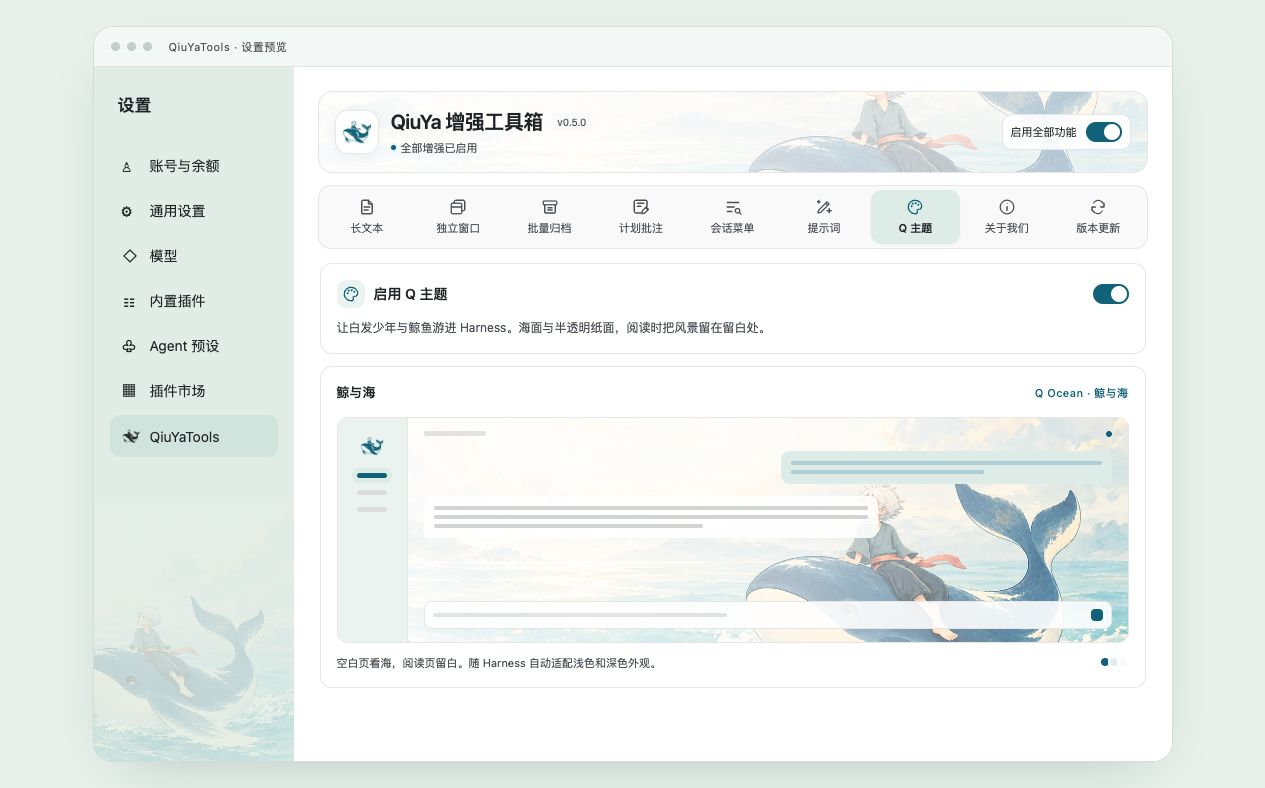
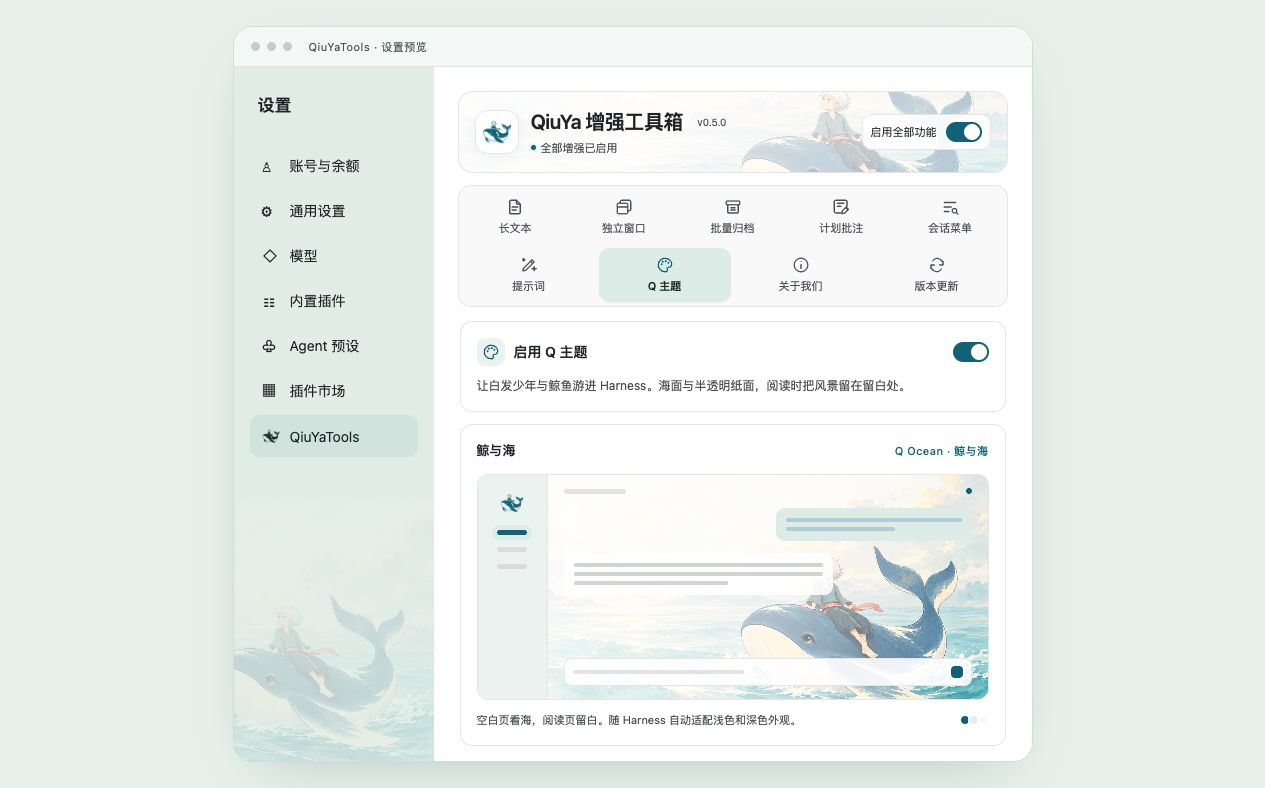
调整功能入口为双排并更新说明截图

diff --git a/lib/client.js b/lib/client.js
@@ -4470,7 +4470,7 @@ var en2 = {
 };
 
 // src/client/styles.css
-var styles_default2 = '/* The official settings outlet is display:contents inside a scrolling options\n   div. Contain that div only while our own section is mounted. */\n[data-shortcut-modal="settings"] div:has(> [data-slot="settings.section"] > .qyt-settings) {\n  display: flex;\n  min-height: 0;\n  overflow: hidden;\n  padding-bottom: 16px;\n}\n.qyt-settings {\n  --qyt-ocean-art: url("__QYT_OCEAN_SCENE__");\n  --qyt-ocean: var(--qyt-q-sea, #116d83);\n  --qyt-ocean-solid: #116d83;\n  --qyt-ocean-soft: color-mix(in srgb, #90bfb3 16%, var(--dsw-alias-bg-layer-2));\n  --qyt-ocean-line: color-mix(in srgb, var(--dsw-alias-label-primary) 10%, var(--dsw-alias-bg-layer-2));\n  --qyt-ocean-focus: color-mix(in srgb, var(--qyt-ocean) 30%, transparent);\n  --qyt-surface: var(--dsw-alias-bg-layer-2);\n  --qyt-surface-muted: color-mix(in srgb, var(--dsw-alias-label-primary) 2.5%, var(--dsw-alias-bg-layer-2));\n  --qyt-selected: color-mix(in srgb, #90bfb3 26%, var(--dsw-alias-bg-layer-2));\n  --qyt-art-paper: color-mix(in srgb, var(--dsw-alias-bg-layer-2) 88%, transparent);\n  --qyt-art-wash: color-mix(in srgb, var(--dsw-alias-bg-layer-2) 58%, transparent);\n  display: flex; flex: 1; flex-direction: column; width: 100%; height: 100%; min-width: 0; min-height: 0; overflow: hidden; padding-top: 2px; color: var(--dsw-alias-label-primary);\n}\nbody[data-ds-dark-theme] .qyt-settings { --qyt-ocean: var(--qyt-q-sea, #8ec6d2); --qyt-art-paper: color-mix(in srgb, var(--dsw-alias-bg-layer-2) 94%, transparent); --qyt-art-wash: color-mix(in srgb, var(--dsw-alias-bg-layer-2) 82%, transparent); }\n.qyt-settings * { box-sizing: border-box; }\n.qyt-fixed, .qyt-tabs { flex: none; }\n.qyt-header { display: flex; align-items: center; gap: 12px; min-height: 82px; margin-bottom: 12px; padding: 16px; border: 1px solid var(--qyt-ocean-line); border-radius: 15px; background-color: var(--qyt-ocean-soft); background-image: linear-gradient(90deg, var(--qyt-art-paper) 25%, var(--qyt-art-wash) 100%), var(--qyt-ocean-art); background-position: center, right 56%; background-size: 100% 100%, cover; background-repeat: no-repeat; }\n.qyt-brand { display: grid; place-items: center; flex: none; width: 44px; height: 44px; border: 1px solid var(--qyt-ocean-line); border-radius: 13px; color: var(--qyt-ocean); background: var(--qyt-art-paper); box-shadow: 0 3px 12px rgba(43,83,75,.06); }\n.qyt-brand > span { width: 30px; height: 30px; background: currentColor; mask-position: center; mask-size: contain; mask-repeat: no-repeat; -webkit-mask-position: center; -webkit-mask-size: contain; -webkit-mask-repeat: no-repeat; }\n.qyt-heading { min-width: 0; flex: 1; }\n.qyt-header-actions { display: flex; align-items: center; gap: 9px; flex: none; margin-left: auto; padding: 7px 8px; border: 1px solid var(--qyt-ocean-line); border-radius: 10px; background: var(--qyt-art-paper); font-size: 11px; white-space: nowrap; }\n.qyt-master-toggle { display: inline-flex; align-items: center; flex: none; width: 36px; height: 20px; padding: 2px; border: 0; border-radius: 999px; background: var(--dsw-alias-interactive-bg-active); cursor: pointer; }\n.qyt-master-toggle > span { display: grid; place-items: center; width: 16px; height: 16px; border-radius: 50%; background: var(--qyt-surface); box-shadow: 0 1px 2px rgba(0,0,0,.12); }\n.qyt-master-toggle[aria-checked="true"] { justify-content: flex-end; background: var(--qyt-ocean-solid); }\n.qyt-master-toggle[aria-checked="true"] > span { background: #fff; }\n.qyt-master-toggle[aria-checked="mixed"] { justify-content: center; background: var(--qyt-selected); box-shadow: inset 0 0 0 1px var(--qyt-ocean-line); }\n.qyt-master-toggle[aria-checked="mixed"] > span::after { content: ""; width: 8px; height: 2px; border-radius: 1px; background: var(--qyt-ocean); }\n.qyt-master-toggle:focus-visible { outline: 2px solid var(--qyt-ocean-focus); outline-offset: 2px; }\n.qyt-master-toggle:disabled { opacity: .5; cursor: default; }\n.qyt-title-row { display: flex; align-items: center; gap: 8px; flex-wrap: wrap; }\n.qyt-settings h2 { font-size: 20px; font-weight: 600; letter-spacing: -.4px; margin: 0; line-height: 1.4; }\n.qyt-settings h3, .qyt-settings h4 { margin: 0; font-weight: 600; line-height: 1.5; }\n.qyt-settings h3 { font-size: 14px; }\n.qyt-settings h4 { font-size: 13px; }\n.qyt-settings p { margin: 5px 0 0; line-height: 1.6; }\n.qyt-version { flex: none; font-size: 10px; line-height: 1.4; padding: 2px 6px; border-radius: 5px; color: var(--dsw-alias-label-secondary); background: var(--qyt-surface-muted); }\n.qyt-muted { color: var(--dsw-alias-label-secondary); font-size: 12px; }\n.qyt-status { display: inline-flex; align-items: center; gap: 5px; font-size: 11px; margin-top: 3px; color: var(--dsw-alias-label-secondary); }\n.qyt-status-dot { display: inline-block; flex: none; width: 5px; height: 5px; border-radius: 50%; background: currentColor; }\n.qyt-status[data-state="ready"] .qyt-status-dot { background: var(--qyt-ocean-solid); box-shadow: 0 0 0 2px var(--qyt-ocean-soft); }\n.qyt-status[data-state="partial"] .qyt-status-dot { background: var(--dsw-alias-label-secondary); }\n.qyt-card { border: 1px solid var(--qyt-ocean-line); border-radius: 12px; padding: 16px; background: var(--qyt-surface); }\n.qyt-toggle-row { display: flex; align-items: center; justify-content: space-between; gap: 16px; }\n.qyt-toggle-row > button, .qyt-toggle-row > [role="switch"] { flex-shrink: 0; }\n.qyt-toggle-row > div { min-width: 0; }\n.qyt-settings .qyt-switch[aria-checked="true"] { background: var(--qyt-ocean-solid); }\n.qyt-settings .qyt-switch[aria-checked="true"] > span { background: #fff; }\n.qyt-settings .qyt-switch:focus-visible { outline: 2px solid var(--qyt-ocean-focus); outline-offset: 2px; }\n.qyt-label { font-size: 13px; font-weight: 600; line-height: 1.5; }\n.qyt-settings .qyt-feedback { min-height: 16px; margin-top: 7px; color: var(--dsw-alias-label-secondary); font-size: 11px; }\n.qyt-settings .qyt-feedback[role="alert"] { color: var(--dsw-alias-state-error-primary, var(--dsw-alias-label-primary)); }\n.qyt-tabs { display: flex; min-width: 0; gap: 3px; padding: 4px; border: 1px solid var(--qyt-ocean-line); border-radius: 13px; background: var(--qyt-surface-muted); overflow-x: auto; overflow-y: hidden; overscroll-behavior-x: contain; scrollbar-width: thin; scrollbar-color: var(--qyt-ocean-line) transparent; }\n.qyt-tabs > button { display: flex; flex: 1 0 62px; flex-direction: column; align-items: center; justify-content: center; gap: 5px; min-width: 62px; margin: 0; padding: 8px 4px; border: 0; border-radius: 11px; background: transparent; color: var(--dsw-alias-label-secondary); font: inherit; font-size: 11px; line-height: 1.35; white-space: nowrap; cursor: pointer; }\n.qyt-tabs > button > svg { flex: none; width: 18px; height: 18px; }\n.qyt-tabs > button[aria-selected="true"] { color: var(--dsw-alias-label-primary); background: var(--qyt-selected); box-shadow: 0 1px 2px rgba(32,40,44,.04); font-weight: 600; }\n.qyt-tabs > button[aria-selected="true"] > svg { color: var(--qyt-ocean); }\n.qyt-tabs > button:hover:not([aria-selected="true"]) { color: var(--dsw-alias-label-primary); background: var(--qyt-surface-muted); }\n.qyt-tabs > button:focus-visible, .qyt-tab-panel:focus-visible, .qyt-button:focus-visible { outline: 2px solid var(--qyt-ocean-focus); outline-offset: -2px; }\n.qyt-tab-panel { flex: 1; min-width: 0; min-height: 0; overflow-x: hidden; overflow-y: auto; overscroll-behavior: contain; scrollbar-width: thin; scrollbar-color: var(--qyt-ocean-line) transparent; padding: 14px 2px 2px; }\n.qyt-tab-panel[hidden] { display: none; }\n.qyt-feature-panel { display: grid; gap: 12px; }\n.qyt-feature-heading { display: flex; align-items: center; gap: 9px; }\n.qyt-feature-icon { display: inline-flex; align-items: center; justify-content: center; flex: none; width: 28px; height: 28px; border-radius: 9px; color: var(--qyt-ocean); background: var(--qyt-ocean-soft); }\n.qyt-feature-icon svg { width: 18px; height: 18px; }\n.qyt-feature-summary > .qyt-muted { margin-top: 10px; }\n.qyt-guide { background: var(--qyt-surface-muted); }\n.qyt-guide ol { display: grid; gap: 10px; margin: 12px 0 0; padding-left: 20px; color: var(--dsw-alias-label-secondary); font-size: 12px; line-height: 1.65; }\n.qyt-guide li { padding-left: 3px; }\n.qyt-guide li::marker { color: var(--dsw-alias-label-secondary); font-size: 11px; }\n.qyt-threshold-fields { display: grid; grid-template-columns: repeat(2,minmax(0,1fr)); gap: 14px; margin-top: 16px; }\n.qyt-number-field { display: grid; gap: 6px; font-size: 12px; min-width: 0; }\n.qyt-number-field input { appearance: textfield; width: 100%; min-width: 0; border: 1px solid var(--qyt-ocean-line); border-radius: 8px; background: var(--qyt-surface); color: inherit; padding: 8px 10px; font: inherit; font-variant-numeric: tabular-nums; line-height: 1.3; box-shadow: 0 1px 2px rgba(32,40,44,.025); }\n.qyt-number-field input:focus { outline: 2px solid var(--qyt-ocean-focus); outline-offset: 1px; border-color: var(--qyt-ocean); }\n.qyt-number-field input[aria-invalid="true"] { border-color: var(--dsw-alias-state-error-primary, var(--dsw-alias-label-primary)); }\n.qyt-number-field .qyt-muted { font-size: 10px; }\n.qyt-threshold-footer { display: flex; align-items: center; justify-content: space-between; gap: 12px; margin-top: 16px; }\n.qyt-threshold-footer .qyt-feedback { margin: 0; }\n.qyt-button { flex: 0 0 auto; border: 1px solid var(--qyt-ocean-line); border-radius: 8px; padding: 7px 11px; background: var(--qyt-surface); color: var(--dsw-alias-label-primary); font: inherit; font-size: 12px; line-height: 1.5; cursor: pointer; }\n.qyt-button:hover:enabled { background: var(--qyt-surface-muted); }\n.qyt-button-primary, .qyt-button-primary:hover:enabled { background: var(--qyt-ocean-solid); color: #fff; border-color: var(--qyt-ocean-solid); }\n.qyt-button-primary:hover:enabled { opacity: .88; }\n.qyt-number-field input:disabled, .qyt-button:disabled { opacity: .5; cursor: default; }\n.qyt-theme-title, .qyt-theme-caption { display: flex; align-items: center; justify-content: space-between; gap: 12px; }\n.qyt-theme-name { color: var(--qyt-ocean); font-size: 11px; font-weight: 500; letter-spacing: .4px; }\n.qyt-theme-preview { margin-top: 14px; border: 1px solid var(--qyt-ocean-line); border-radius: 11px; overflow: hidden; background: var(--dsw-alias-bg-layer-2); }\n.qyt-theme-scene { display: grid; grid-template-columns: 70px minmax(0,1fr); min-height: 224px; background-image: linear-gradient(100deg, var(--qyt-art-paper), var(--qyt-art-wash) 60%, transparent), var(--qyt-ocean-art); background-size: cover; background-position: center; }\n.qyt-preview-sidebar { display: flex; flex-direction: column; align-items: center; gap: 12px; padding: 16px 10px; border-right: 1px solid var(--qyt-ocean-line); background: var(--qyt-ocean-soft); }\n.qyt-preview-brand { flex: none; width: 24px; height: 24px; margin-bottom: 3px; background: var(--qyt-ocean); mask-position: center; mask-size: contain; mask-repeat: no-repeat; -webkit-mask-position: center; -webkit-mask-size: contain; -webkit-mask-repeat: no-repeat; }\n.qyt-preview-sidebar > i { width: 30px; height: 5px; border-radius: 4px; background: color-mix(in srgb, var(--dsw-alias-label-primary) 14%, var(--qyt-surface)); }\n.qyt-preview-sidebar > i:first-of-type { background: var(--qyt-ocean); box-shadow: 0 0 0 5px var(--qyt-selected); }\n.qyt-preview-main { display: flex; flex-direction: column; align-items: flex-start; gap: 12px; min-width: 0; padding: 13px 16px; }\n.qyt-preview-top { display: flex; align-items: center; justify-content: space-between; align-self: stretch; margin-bottom: 2px; }\n.qyt-preview-top > span { width: 62px; height: 5px; border-radius: 4px; background: var(--dsw-alias-border-l3); }\n.qyt-preview-top > i { width: 6px; height: 6px; border-radius: 50%; background: var(--qyt-ocean); }\n.qyt-preview-bubble { display: grid; gap: 5px; width: 66%; padding: 10px; border-radius: 9px; background: var(--qyt-art-paper); }\n.qyt-preview-bubble > span { height: 4px; border-radius: 3px; background: color-mix(in srgb, var(--dsw-alias-label-primary) 18%, var(--qyt-surface)); }\n.qyt-preview-bubble > span:last-child { width: 62%; }\n.qyt-preview-user { align-self: flex-end; width: 48%; background: var(--qyt-selected); border-bottom-right-radius: 3px; }\n.qyt-preview-user > span { background: color-mix(in srgb, var(--qyt-ocean) 30%, var(--qyt-surface)); }\n.qyt-preview-answer { border-bottom-left-radius: 3px; }\n.qyt-preview-composer { display: flex; align-items: center; justify-content: space-between; align-self: stretch; gap: 12px; margin-top: auto; padding: 7px 8px; border: 1px solid var(--qyt-ocean-line); border-radius: 8px; background: var(--qyt-art-paper); }\n.qyt-preview-composer > span { width: 44%; height: 4px; border-radius: 3px; background: var(--dsw-alias-border-l3); }\n.qyt-preview-composer > i { width: 12px; height: 12px; border-radius: 4px; background: var(--qyt-ocean-solid); }\n.qyt-theme-caption { margin-top: 11px; }\n.qyt-theme-caption > .qyt-muted { margin: 0; font-size: 11px; }\n.qyt-theme-swatches { display: inline-flex; flex: none; }\n.qyt-theme-swatches > i { width: 12px; height: 12px; border: 2px solid var(--dsw-alias-bg-layer-2); border-radius: 50%; background: #116d83; }\n.qyt-theme-swatches > i + i { margin-left: -3px; background: #e7efef; }\n.qyt-theme-swatches > i:last-child { background: #fafaf8; }\n@media (forced-colors: active) {\n  .qyt-header, .qyt-theme-scene { background: Canvas; box-shadow: none; }\n  .qyt-master-toggle { border: 1px solid ButtonText; }\n  .qyt-master-toggle > span { border: 1px solid ButtonText; }\n  .qyt-master-toggle[aria-checked="mixed"] > span::after { background: ButtonText; }\n}\n@media (max-width: 620px) {\n  .qyt-header { gap: 10px; padding-bottom: 12px; }\n  .qyt-brand { width: 38px; height: 38px; border-radius: 11px; }\n  .qyt-brand > span { width: 26px; height: 26px; }\n  .qyt-settings h2 { font-size: 18px; }\n  .qyt-header-actions { flex-direction: column; gap: 5px; padding: 6px; font-size: 10px; }\n  .qyt-card { padding: 13px; }\n  .qyt-toggle-row { gap: 10px; }\n  .qyt-threshold-fields { gap: 10px; }\n  .qyt-threshold-footer { flex-wrap: wrap; }\n}\n@media (max-height: 560px) {\n  .qyt-header { padding-bottom: 10px; }\n  .qyt-tabs > button { padding-top: 6px; padding-bottom: 6px; gap: 3px; }\n}\n';
+var styles_default2 = '/* The official settings outlet is display:contents inside a scrolling options\n   div. Contain that div only while our own section is mounted. */\n[data-shortcut-modal="settings"] div:has(> [data-slot="settings.section"] > .qyt-settings) {\n  display: flex;\n  min-height: 0;\n  overflow: hidden;\n  padding-bottom: 16px;\n}\n.qyt-settings {\n  --qyt-ocean-art: url("__QYT_OCEAN_SCENE__");\n  --qyt-ocean: var(--qyt-q-sea, #116d83);\n  --qyt-ocean-solid: #116d83;\n  --qyt-ocean-soft: color-mix(in srgb, #90bfb3 16%, var(--dsw-alias-bg-layer-2));\n  --qyt-ocean-line: color-mix(in srgb, var(--dsw-alias-label-primary) 10%, var(--dsw-alias-bg-layer-2));\n  --qyt-ocean-focus: color-mix(in srgb, var(--qyt-ocean) 30%, transparent);\n  --qyt-surface: var(--dsw-alias-bg-layer-2);\n  --qyt-surface-muted: color-mix(in srgb, var(--dsw-alias-label-primary) 2.5%, var(--dsw-alias-bg-layer-2));\n  --qyt-selected: color-mix(in srgb, #90bfb3 26%, var(--dsw-alias-bg-layer-2));\n  --qyt-art-paper: color-mix(in srgb, var(--dsw-alias-bg-layer-2) 88%, transparent);\n  --qyt-art-wash: color-mix(in srgb, var(--dsw-alias-bg-layer-2) 58%, transparent);\n  display: flex; flex: 1; flex-direction: column; width: 100%; height: 100%; min-width: 0; min-height: 0; overflow: hidden; padding-top: 2px; color: var(--dsw-alias-label-primary);\n}\nbody[data-ds-dark-theme] .qyt-settings { --qyt-ocean: var(--qyt-q-sea, #8ec6d2); --qyt-art-paper: color-mix(in srgb, var(--dsw-alias-bg-layer-2) 94%, transparent); --qyt-art-wash: color-mix(in srgb, var(--dsw-alias-bg-layer-2) 82%, transparent); }\n.qyt-settings * { box-sizing: border-box; }\n.qyt-fixed, .qyt-tabs { flex: none; }\n.qyt-header { display: flex; align-items: center; gap: 12px; min-height: 82px; margin-bottom: 12px; padding: 16px; border: 1px solid var(--qyt-ocean-line); border-radius: 15px; background-color: var(--qyt-ocean-soft); background-image: linear-gradient(90deg, var(--qyt-art-paper) 25%, var(--qyt-art-wash) 100%), var(--qyt-ocean-art); background-position: center, right 56%; background-size: 100% 100%, cover; background-repeat: no-repeat; }\n.qyt-brand { display: grid; place-items: center; flex: none; width: 44px; height: 44px; border: 1px solid var(--qyt-ocean-line); border-radius: 13px; color: var(--qyt-ocean); background: var(--qyt-art-paper); box-shadow: 0 3px 12px rgba(43,83,75,.06); }\n.qyt-brand > span { width: 30px; height: 30px; background: currentColor; mask-position: center; mask-size: contain; mask-repeat: no-repeat; -webkit-mask-position: center; -webkit-mask-size: contain; -webkit-mask-repeat: no-repeat; }\n.qyt-heading { min-width: 0; flex: 1; }\n.qyt-header-actions { display: flex; align-items: center; gap: 9px; flex: none; margin-left: auto; padding: 7px 8px; border: 1px solid var(--qyt-ocean-line); border-radius: 10px; background: var(--qyt-art-paper); font-size: 11px; white-space: nowrap; }\n.qyt-master-toggle { display: inline-flex; align-items: center; flex: none; width: 36px; height: 20px; padding: 2px; border: 0; border-radius: 999px; background: var(--dsw-alias-interactive-bg-active); cursor: pointer; }\n.qyt-master-toggle > span { display: grid; place-items: center; width: 16px; height: 16px; border-radius: 50%; background: var(--qyt-surface); box-shadow: 0 1px 2px rgba(0,0,0,.12); }\n.qyt-master-toggle[aria-checked="true"] { justify-content: flex-end; background: var(--qyt-ocean-solid); }\n.qyt-master-toggle[aria-checked="true"] > span { background: #fff; }\n.qyt-master-toggle[aria-checked="mixed"] { justify-content: center; background: var(--qyt-selected); box-shadow: inset 0 0 0 1px var(--qyt-ocean-line); }\n.qyt-master-toggle[aria-checked="mixed"] > span::after { content: ""; width: 8px; height: 2px; border-radius: 1px; background: var(--qyt-ocean); }\n.qyt-master-toggle:focus-visible { outline: 2px solid var(--qyt-ocean-focus); outline-offset: 2px; }\n.qyt-master-toggle:disabled { opacity: .5; cursor: default; }\n.qyt-title-row { display: flex; align-items: center; gap: 8px; flex-wrap: wrap; }\n.qyt-settings h2 { font-size: 20px; font-weight: 600; letter-spacing: -.4px; margin: 0; line-height: 1.4; }\n.qyt-settings h3, .qyt-settings h4 { margin: 0; font-weight: 600; line-height: 1.5; }\n.qyt-settings h3 { font-size: 14px; }\n.qyt-settings h4 { font-size: 13px; }\n.qyt-settings p { margin: 5px 0 0; line-height: 1.6; }\n.qyt-version { flex: none; font-size: 10px; line-height: 1.4; padding: 2px 6px; border-radius: 5px; color: var(--dsw-alias-label-secondary); background: var(--qyt-surface-muted); }\n.qyt-muted { color: var(--dsw-alias-label-secondary); font-size: 12px; }\n.qyt-status { display: inline-flex; align-items: center; gap: 5px; font-size: 11px; margin-top: 3px; color: var(--dsw-alias-label-secondary); }\n.qyt-status-dot { display: inline-block; flex: none; width: 5px; height: 5px; border-radius: 50%; background: currentColor; }\n.qyt-status[data-state="ready"] .qyt-status-dot { background: var(--qyt-ocean-solid); box-shadow: 0 0 0 2px var(--qyt-ocean-soft); }\n.qyt-status[data-state="partial"] .qyt-status-dot { background: var(--dsw-alias-label-secondary); }\n.qyt-card { border: 1px solid var(--qyt-ocean-line); border-radius: 12px; padding: 16px; background: var(--qyt-surface); }\n.qyt-toggle-row { display: flex; align-items: center; justify-content: space-between; gap: 16px; }\n.qyt-toggle-row > button, .qyt-toggle-row > [role="switch"] { flex-shrink: 0; }\n.qyt-toggle-row > div { min-width: 0; }\n.qyt-settings .qyt-switch[aria-checked="true"] { background: var(--qyt-ocean-solid); }\n.qyt-settings .qyt-switch[aria-checked="true"] > span { background: #fff; }\n.qyt-settings .qyt-switch:focus-visible { outline: 2px solid var(--qyt-ocean-focus); outline-offset: 2px; }\n.qyt-label { font-size: 13px; font-weight: 600; line-height: 1.5; }\n.qyt-settings .qyt-feedback { min-height: 16px; margin-top: 7px; color: var(--dsw-alias-label-secondary); font-size: 11px; }\n.qyt-settings .qyt-feedback[role="alert"] { color: var(--dsw-alias-state-error-primary, var(--dsw-alias-label-primary)); }\n.qyt-tabs { display: flex; flex-wrap: wrap; min-width: 0; gap: 4px; padding: 4px; border: 1px solid var(--qyt-ocean-line); border-radius: 13px; background: var(--qyt-surface-muted); }\n.qyt-tabs > button { display: flex; flex: 1 0 calc(20% - 4px); flex-direction: column; align-items: center; justify-content: center; gap: 5px; min-width: 0; margin: 0; padding: 8px 4px; border: 0; border-radius: 11px; background: transparent; color: var(--dsw-alias-label-secondary); font: inherit; font-size: 11px; line-height: 1.35; white-space: normal; cursor: pointer; }\n.qyt-tabs > button > span { max-width: 100%; text-align: center; overflow-wrap: anywhere; }\n.qyt-tabs > button > svg { flex: none; width: 18px; height: 18px; }\n.qyt-tabs > button[aria-selected="true"] { color: var(--dsw-alias-label-primary); background: var(--qyt-selected); box-shadow: 0 1px 2px rgba(32,40,44,.04); font-weight: 600; }\n.qyt-tabs > button[aria-selected="true"] > svg { color: var(--qyt-ocean); }\n.qyt-tabs > button:hover:not([aria-selected="true"]) { color: var(--dsw-alias-label-primary); background: var(--qyt-surface-muted); }\n.qyt-tabs > button:focus-visible, .qyt-tab-panel:focus-visible, .qyt-button:focus-visible { outline: 2px solid var(--qyt-ocean-focus); outline-offset: -2px; }\n.qyt-tab-panel { flex: 1; min-width: 0; min-height: 0; overflow-x: hidden; overflow-y: auto; overscroll-behavior: contain; scrollbar-width: thin; scrollbar-color: var(--qyt-ocean-line) transparent; padding: 14px 2px 2px; }\n.qyt-tab-panel[hidden] { display: none; }\n.qyt-feature-panel { display: grid; gap: 12px; }\n.qyt-feature-heading { display: flex; align-items: center; gap: 9px; }\n.qyt-feature-icon { display: inline-flex; align-items: center; justify-content: center; flex: none; width: 28px; height: 28px; border-radius: 9px; color: var(--qyt-ocean); background: var(--qyt-ocean-soft); }\n.qyt-feature-icon svg { width: 18px; height: 18px; }\n.qyt-feature-summary > .qyt-muted { margin-top: 10px; }\n.qyt-guide { background: var(--qyt-surface-muted); }\n.qyt-guide ol { display: grid; gap: 10px; margin: 12px 0 0; padding-left: 20px; color: var(--dsw-alias-label-secondary); font-size: 12px; line-height: 1.65; }\n.qyt-guide li { padding-left: 3px; }\n.qyt-guide li::marker { color: var(--dsw-alias-label-secondary); font-size: 11px; }\n.qyt-threshold-fields { display: grid; grid-template-columns: repeat(2,minmax(0,1fr)); gap: 14px; margin-top: 16px; }\n.qyt-number-field { display: grid; gap: 6px; font-size: 12px; min-width: 0; }\n.qyt-number-field input { appearance: textfield; width: 100%; min-width: 0; border: 1px solid var(--qyt-ocean-line); border-radius: 8px; background: var(--qyt-surface); color: inherit; padding: 8px 10px; font: inherit; font-variant-numeric: tabular-nums; line-height: 1.3; box-shadow: 0 1px 2px rgba(32,40,44,.025); }\n.qyt-number-field input:focus { outline: 2px solid var(--qyt-ocean-focus); outline-offset: 1px; border-color: var(--qyt-ocean); }\n.qyt-number-field input[aria-invalid="true"] { border-color: var(--dsw-alias-state-error-primary, var(--dsw-alias-label-primary)); }\n.qyt-number-field .qyt-muted { font-size: 10px; }\n.qyt-threshold-footer { display: flex; align-items: center; justify-content: space-between; gap: 12px; margin-top: 16px; }\n.qyt-threshold-footer .qyt-feedback { margin: 0; }\n.qyt-button { flex: 0 0 auto; border: 1px solid var(--qyt-ocean-line); border-radius: 8px; padding: 7px 11px; background: var(--qyt-surface); color: var(--dsw-alias-label-primary); font: inherit; font-size: 12px; line-height: 1.5; cursor: pointer; }\n.qyt-button:hover:enabled { background: var(--qyt-surface-muted); }\n.qyt-button-primary, .qyt-button-primary:hover:enabled { background: var(--qyt-ocean-solid); color: #fff; border-color: var(--qyt-ocean-solid); }\n.qyt-button-primary:hover:enabled { opacity: .88; }\n.qyt-number-field input:disabled, .qyt-button:disabled { opacity: .5; cursor: default; }\n.qyt-theme-title, .qyt-theme-caption { display: flex; align-items: center; justify-content: space-between; gap: 12px; }\n.qyt-theme-name { color: var(--qyt-ocean); font-size: 11px; font-weight: 500; letter-spacing: .4px; }\n.qyt-theme-preview { margin-top: 14px; border: 1px solid var(--qyt-ocean-line); border-radius: 11px; overflow: hidden; background: var(--dsw-alias-bg-layer-2); }\n.qyt-theme-scene { display: grid; grid-template-columns: 70px minmax(0,1fr); min-height: 224px; background-image: linear-gradient(100deg, var(--qyt-art-paper), var(--qyt-art-wash) 60%, transparent), var(--qyt-ocean-art); background-size: cover; background-position: center; }\n.qyt-preview-sidebar { display: flex; flex-direction: column; align-items: center; gap: 12px; padding: 16px 10px; border-right: 1px solid var(--qyt-ocean-line); background: var(--qyt-ocean-soft); }\n.qyt-preview-brand { flex: none; width: 24px; height: 24px; margin-bottom: 3px; background: var(--qyt-ocean); mask-position: center; mask-size: contain; mask-repeat: no-repeat; -webkit-mask-position: center; -webkit-mask-size: contain; -webkit-mask-repeat: no-repeat; }\n.qyt-preview-sidebar > i { width: 30px; height: 5px; border-radius: 4px; background: color-mix(in srgb, var(--dsw-alias-label-primary) 14%, var(--qyt-surface)); }\n.qyt-preview-sidebar > i:first-of-type { background: var(--qyt-ocean); box-shadow: 0 0 0 5px var(--qyt-selected); }\n.qyt-preview-main { display: flex; flex-direction: column; align-items: flex-start; gap: 12px; min-width: 0; padding: 13px 16px; }\n.qyt-preview-top { display: flex; align-items: center; justify-content: space-between; align-self: stretch; margin-bottom: 2px; }\n.qyt-preview-top > span { width: 62px; height: 5px; border-radius: 4px; background: var(--dsw-alias-border-l3); }\n.qyt-preview-top > i { width: 6px; height: 6px; border-radius: 50%; background: var(--qyt-ocean); }\n.qyt-preview-bubble { display: grid; gap: 5px; width: 66%; padding: 10px; border-radius: 9px; background: var(--qyt-art-paper); }\n.qyt-preview-bubble > span { height: 4px; border-radius: 3px; background: color-mix(in srgb, var(--dsw-alias-label-primary) 18%, var(--qyt-surface)); }\n.qyt-preview-bubble > span:last-child { width: 62%; }\n.qyt-preview-user { align-self: flex-end; width: 48%; background: var(--qyt-selected); border-bottom-right-radius: 3px; }\n.qyt-preview-user > span { background: color-mix(in srgb, var(--qyt-ocean) 30%, var(--qyt-surface)); }\n.qyt-preview-answer { border-bottom-left-radius: 3px; }\n.qyt-preview-composer { display: flex; align-items: center; justify-content: space-between; align-self: stretch; gap: 12px; margin-top: auto; padding: 7px 8px; border: 1px solid var(--qyt-ocean-line); border-radius: 8px; background: var(--qyt-art-paper); }\n.qyt-preview-composer > span { width: 44%; height: 4px; border-radius: 3px; background: var(--dsw-alias-border-l3); }\n.qyt-preview-composer > i { width: 12px; height: 12px; border-radius: 4px; background: var(--qyt-ocean-solid); }\n.qyt-theme-caption { margin-top: 11px; }\n.qyt-theme-caption > .qyt-muted { margin: 0; font-size: 11px; }\n.qyt-theme-swatches { display: inline-flex; flex: none; }\n.qyt-theme-swatches > i { width: 12px; height: 12px; border: 2px solid var(--dsw-alias-bg-layer-2); border-radius: 50%; background: #116d83; }\n.qyt-theme-swatches > i + i { margin-left: -3px; background: #e7efef; }\n.qyt-theme-swatches > i:last-child { background: #fafaf8; }\n@media (forced-colors: active) {\n  .qyt-header, .qyt-theme-scene { background: Canvas; box-shadow: none; }\n  .qyt-master-toggle { border: 1px solid ButtonText; }\n  .qyt-master-toggle > span { border: 1px solid ButtonText; }\n  .qyt-master-toggle[aria-checked="mixed"] > span::after { background: ButtonText; }\n}\n@media (max-width: 620px) {\n  .qyt-header { gap: 10px; padding-bottom: 12px; }\n  .qyt-brand { width: 38px; height: 38px; border-radius: 11px; }\n  .qyt-brand > span { width: 26px; height: 26px; }\n  .qyt-settings h2 { font-size: 18px; }\n  .qyt-header-actions { flex-direction: column; gap: 5px; padding: 6px; font-size: 10px; }\n  .qyt-card { padding: 13px; }\n  .qyt-toggle-row { gap: 10px; }\n  .qyt-threshold-fields { gap: 10px; }\n  .qyt-threshold-footer { flex-wrap: wrap; }\n}\n@media (max-height: 560px) {\n  .qyt-header { padding-bottom: 10px; }\n  .qyt-tabs > button { padding-top: 6px; padding-bottom: 6px; gap: 3px; }\n}\n';
 
 // src/client/index.tsx
 var import_jsx_runtime11 = require("react/jsx-runtime");

diff --git a/src/client/styles.css b/src/client/styles.css
@@ -58,8 +58,9 @@ body[data-ds-dark-theme] .qyt-settings { --qyt-ocean: var(--qyt-q-sea, #8ec6d2);
 .qyt-label { font-size: 13px; font-weight: 600; line-height: 1.5; }
 .qyt-settings .qyt-feedback { min-height: 16px; margin-top: 7px; color: var(--dsw-alias-label-secondary); font-size: 11px; }
 .qyt-settings .qyt-feedback[role="alert"] { color: var(--dsw-alias-state-error-primary, var(--dsw-alias-label-primary)); }
-.qyt-tabs { display: flex; min-width: 0; gap: 3px; padding: 4px; border: 1px solid var(--qyt-ocean-line); border-radius: 13px; background: var(--qyt-surface-muted); overflow-x: auto; overflow-y: hidden; overscroll-behavior-x: contain; scrollbar-width: thin; scrollbar-color: var(--qyt-ocean-line) transparent; }
-.qyt-tabs > button { display: flex; flex: 1 0 62px; flex-direction: column; align-items: center; justify-content: center; gap: 5px; min-width: 62px; margin: 0; padding: 8px 4px; border: 0; border-radius: 11px; background: transparent; color: var(--dsw-alias-label-secondary); font: inherit; font-size: 11px; line-height: 1.35; white-space: nowrap; cursor: pointer; }
+.qyt-tabs { display: flex; flex-wrap: wrap; min-width: 0; gap: 4px; padding: 4px; border: 1px solid var(--qyt-ocean-line); border-radius: 13px; background: var(--qyt-surface-muted); }
+.qyt-tabs > button { display: flex; flex: 1 0 calc(20% - 4px); flex-direction: column; align-items: center; justify-content: center; gap: 5px; min-width: 0; margin: 0; padding: 8px 4px; border: 0; border-radius: 11px; background: transparent; color: var(--dsw-alias-label-secondary); font: inherit; font-size: 11px; line-height: 1.35; white-space: normal; cursor: pointer; }
+.qyt-tabs > button > span { max-width: 100%; text-align: center; overflow-wrap: anywhere; }
 .qyt-tabs > button > svg { flex: none; width: 18px; height: 18px; }
 .qyt-tabs > button[aria-selected="true"] { color: var(--dsw-alias-label-primary); background: var(--qyt-selected); box-shadow: 0 1px 2px rgba(32,40,44,.04); font-weight: 600; }
 .qyt-tabs > button[aria-selected="true"] > svg { color: var(--qyt-ocean); }

diff --git a/README.md b/README.md
@@ -23,21 +23,31 @@
 | 会话独立窗口 | 右键打开，或把会话拖出列表；再次打开同一会话会唤起已有窗口。 |
 | 批量归档 | Shift 连选、⌘ / Ctrl 多选后右键归档，也可归档工作区全部会话。 |
 | 计划批注 | 选中计划文字添加评论，提交修改建议，保留输入框原有草稿。 |
-| 菜单增强 | 右键置顶、标记未读、复制标题或路径、打开目录；工作区可移到顶部。 |
-| 提示词建议 | 根据当前会话推荐下一句，按 Tab 填入、Esc 隐藏，由你决定是否发送。 |
-| Q主题「鲸与海」 | 手绘鲸鱼与白发少年，适配浅色、深色外观。 |
+| 会话菜单 | 右键置顶、手动标记已读 / 未读、复制标题 / 会话 ID / 工作目录路径、打开目录；工作区也可移到顶部。 |
+| 提示词建议 | 回复结束后，点击空输入框，根据当前会话推荐下一句。按 **Tab** 填入、**Esc** 隐藏，可修改后手动发送。 |
+| Q主题「鲸与海」 | 手绘鲸鱼与白发少年背景，搭配柔和的半透明界面，支持浅色、深色外观。 |
 
-六项增强默认开启，可单独开关，也可一键全选。Q主题默认关闭，独立设置。提示词建议使用当前会话模型，会产生少量额外模型用量。
+六项增强默认开启，可单独开关，也可一键全选。Q主题默认关闭，独立设置。功能入口分为两排，无需横向滚动。
+
+提示词建议使用当前会话所选模型，会产生少量额外模型用量。
 
 ## 界面预览
 
-以下为隔离环境中的插件界面截图，不含真实会话、项目或账号数据。
+以下为隔离示例预览，主题使用插件实际样式；不含真实会话、项目或账号数据。
+
+**Q主题 · 新会话**
+
+![Q主题鲸与海的新会话界面示例](docs/images/q-theme-home.jpg)
+
+**Q主题 · 会话阅读**
+
+![Q主题半透明会话与输入框示例](docs/images/q-theme-conversation.jpg)
 
 **功能设置**
 
-![QiuYaTools 功能设置与长文本转换阈值](docs/images/settings.jpg)
+![QiuYaTools 双排功能入口与长文本转换阈值](docs/images/settings.jpg)
 
-**Q主题「鲸与海」**
+**Q主题设置**
 
 ![QiuYaTools 鲸与海主题设置与预览](docs/images/q-theme.jpg)
 
